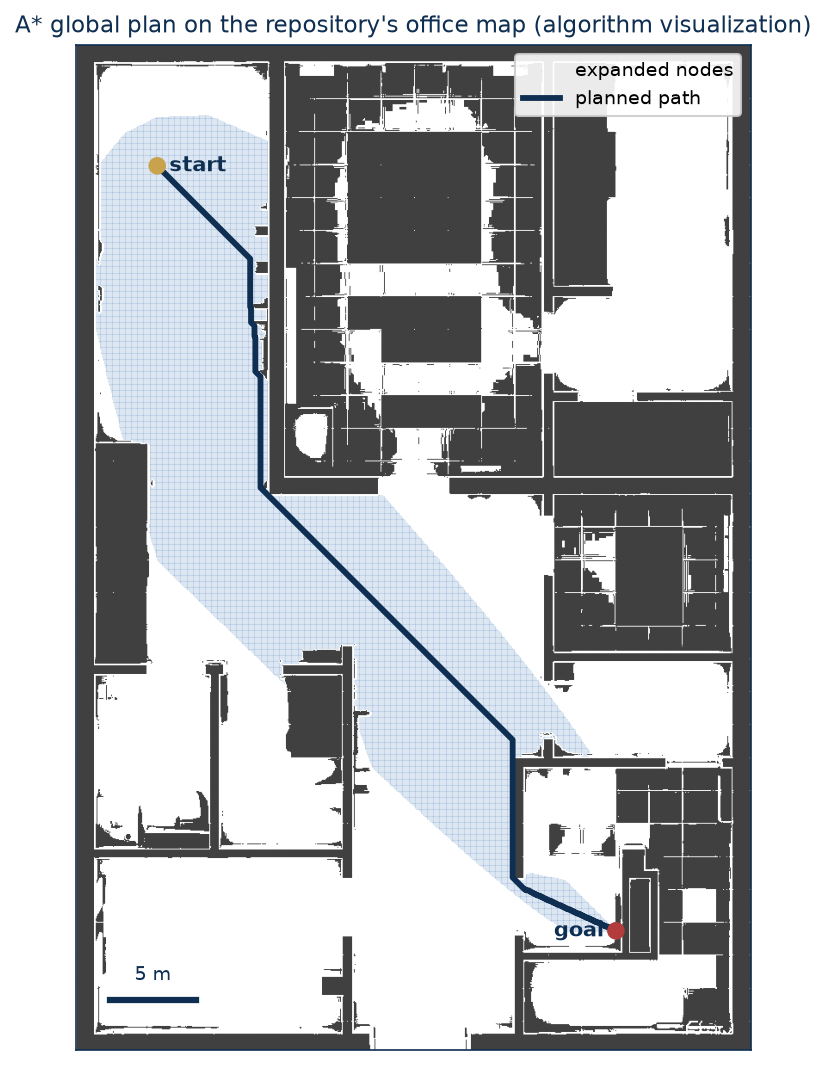
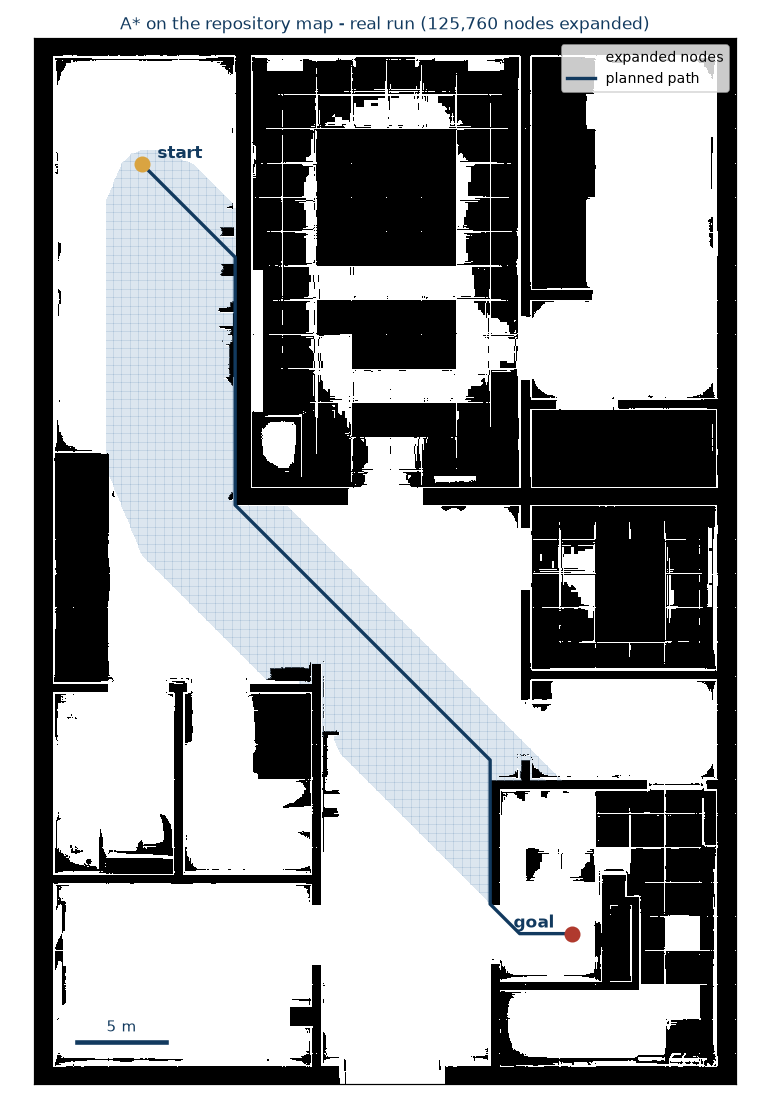
Bring every project claim in line with the rebuilt repositories
The path-planning and safety-verifier pages now carry the measured,
CI-replayed results (4.3x mean replan speedup with the per-event
scatter; 35/35 unsafe qwen2.5-7B plans caught with zero misses across
2,111 oracle-checked cases) and every figure is the real one rendered
from committed run data - the fabricated results chart is gone. The
ESP32 page drops the retracted accuracy figures, says so openly, and
stands on what the repository can back: the firmware, the demo, and
the signed reference. The Muxtronics testimonial is trimmed to its
non-numeric part, the experience bullet loses its unsubstantiated RAM
figure, and the Jetson Nano card is removed until its numbers can be
shown with a public repository.

diff --git a/projects/path-planning.html b/projects/path-planning.html
@@ -4,7 +4,7 @@
 <meta charset="utf-8">
 <meta name="viewport" content="width=device-width, initial-scale=1.0">
 <title>ROS2 Dynamic Path Planning · Munawar Kazmi</title>
-<meta name="description" content="A* vs D* Lite global planners for ROS2 Nav2: real-time replanning in dynamic environments, validated over 200 reproducible trials.">
+<meta name="description" content="A* vs D* Lite global planners for ROS2 Nav2: D* Lite replans 4.3x faster on average in a fair, seeded 200-trial benchmark, validated against Dijkstra ground truth and re-run in CI.">
 <link rel="icon" type="image/png" sizes="48x48" href="../assets/favicon-48.png">
 <link rel="icon" type="image/svg+xml" href="../assets/favicon.svg">
 <link rel="preconnect" href="https://fonts.googleapis.com">
@@ -22,55 +22,60 @@
 
 <div class="wrap">
   <header class="hero">
-    <div class="eyebrow">ROS2 · C++20 · Nav2 · TurtleBot3</div>
+    <div class="eyebrow">ROS2 · C++20 · Nav2 · CI-verified</div>
     <h1>Planning paths that survive a <em>changing world</em></h1>
-    <p class="lede">Two global planner plugins for ROS2 Nav2, written in modern C++20: classic A* and incremental D* Lite, benchmarked head-to-head in an office full of moving people.</p>
+    <p class="lede">Two global planner plugins for ROS2 Nav2, written in modern C++20: classic A* and incremental D* Lite, benchmarked head-to-head on the event that matters - an obstacle lands on the route and the planner must recover.</p>
     <div class="cta-row">
       <a class="btn-primary" href="https://github.com/munawarkazmi/ros2-dynamic-path-planning" target="_blank" rel="noopener">View on GitHub</a>
       <a class="btn-secondary" href="#results">Jump to results</a>
     </div>
     <div class="metric-row">
-      <div class="metric"><div class="metric-num">22.4%</div><div class="metric-label">faster average travel time with D* Lite</div></div>
-      <div class="metric"><div class="metric-num">197/200</div><div class="metric-label">trials won by D* Lite (seed 42, fully reproducible)</div></div>
-      <div class="metric"><div class="metric-num">8</div><div class="metric-label">moving people in the simulated office world</div></div>
+      <div class="metric"><div class="metric-num">4.3x</div><div class="metric-label">faster replanning with D* Lite (mean; 11x median), seed 42, 200 trials</div></div>
+      <div class="metric"><div class="metric-num">0</div><div class="metric-label">path-cost mismatches across all 1,716 measured events - both planners provably optimal</div></div>
+      <div class="metric"><div class="metric-num">185,237</div><div class="metric-label">fuzzed incremental replans validated against Dijkstra with exact equality</div></div>
     </div>
   </header>
 
   <section class="block">
     <h2>The <em>problem</em></h2>
-    <p>Warehouses, hospitals, and homes never hold still. A robot plans a route, someone steps into it, and the plan is suddenly wrong. Classic A* handles this by throwing everything away and searching again from scratch, which costs processing spikes and jerky motion exactly when smoothness matters most. D* Lite takes the other road: it repairs the existing plan incrementally, reusing everything the previous search already learned.</p>
-    <p>This project turns that textbook comparison into running code: two real Nav2 global planner plugins, one launch-file switch between them, and a benchmark node that settles the question with numbers instead of intuition.</p>
+    <p>Warehouses, hospitals, and homes never hold still. A robot plans a route, someone steps into it, and the plan is suddenly wrong. Classic A* handles this by throwing everything away and searching again from scratch, which costs processing spikes exactly when smoothness matters most. D* Lite takes the other road: it repairs the existing plan incrementally, reusing everything the previous search already learned.</p>
+    <p>This project turns that textbook comparison into running code: a ROS-free C++20 planning core with Nav2 plugin adapters, and a benchmark that settles the question with numbers a stranger can reproduce - the per-event data, the seed, and the code that produced them are committed together, and CI re-runs the tests and a benchmark smoke pass on every push.</p>
+    <p>Getting D* Lite actually correct was the hard part: its priority keys routinely tie between vertices, and floating-point rounding of mathematically equal keys can bury a vertex the algorithm must expand, freezing stale state into the path. The fix is an exact integer cost metric - every g, rhs, and key an integer, every comparison exact - validated by 185,237 fuzzed incremental replans that must match a reference Dijkstra to the unit.</p>
   </section>
 
   <section class="block">
     <h2>What the planner <em>sees</em></h2>
     <figure class="light">
-      <img src="img/astar_plan.png" alt="A* global plan across the office map with expanded nodes shown as a blue cloud" loading="lazy">
-      <figcaption>A real A* run on the project's 50 m &times; 40 m office map. The blue cloud is every node the search expanded on its way to the goal; the navy line is the resulting path. Algorithm visualization, generated from the repository's actual occupancy map.</figcaption>
+      <img src="img/astar_plan.png" alt="A* global plan across the office map with its 125,760 expanded nodes shown as a blue cloud" loading="lazy">
+      <figcaption>A real A* run on the repository's 39.2 m &times; 58.4 m office map: 125,760 expanded nodes (blue cloud) on the way to a 919-cell path. Rendered from actual algorithm output by a committed script.</figcaption>
     </figure>
     <figure class="light">
-      <img src="img/replan_obstacle.png" alt="Replanned route bending around an obstacle that appeared on the original path" loading="lazy">
-      <figcaption>Mid-journey, an obstacle appears directly on the route. The planner repairs the path around it. This event, repeated with 8 walking actors, is exactly what the 200-trial benchmark measures.</figcaption>
+      <img src="img/replan_obstacle.png" alt="D* Lite repaired route bending around an obstacle that appeared on the original path" loading="lazy">
+      <figcaption>Mid-journey, an obstacle appears directly on the route. D* Lite repairs the same journey by expanding just 256 vertices - reusing everything from its previous search that is still valid. This event is what the benchmark measures.</figcaption>
     </figure>
   </section>
 
   <section class="block" id="results">
     <h2>The <em>results</em></h2>
     <figure class="light">
-      <img src="img/benchmark_summary.png" alt="Bar chart: A* 3.298 seconds average travel time versus D* Lite 2.560 seconds" loading="lazy">
-      <figcaption>200 trials, fixed seed, identical conditions for both planners. D* Lite averaged 2.560 s against A*'s 3.298 s and won 197 of 200 runs. The full CSV ships with the repository, and one launch command reproduces the entire benchmark.</figcaption>
+      <img src="img/benchmark_summary.png" alt="Histogram and bar chart of replan times: D* Lite 2.21 ms mean versus A* 9.42 ms mean over 1,493 replan events" loading="lazy">
+      <figcaption>1,493 replan events across 200 seeded trials, identical maps and obstacles for both planners, replanning work timed in isolation. D* Lite: 2.21 ms mean / 0.245 ms median. A*: 9.42 ms mean / 2.72 ms median. Every event asserts both planners returned equal-cost paths.</figcaption>
     </figure>
-    <p>The engineering details that make the comparison fair: both planners run as genuine <strong>pluginlib Nav2 plugins</strong> against the same costmaps, dynamic obstacles are injected identically via MarkerArray, and the benchmark node fixes its random seed so every trial sequence is repeatable to the run.</p>
+    <figure class="light">
+      <img src="img/replan_scatter.png" alt="Log-log scatter of every replan event: D* Lite's cost stays in a narrow band while A*'s spans four orders of magnitude" loading="lazy">
+      <figcaption>Every event as a point. D* Lite's repair cost stays in a narrow band no matter how expensive the from-scratch search is; the events above the diagonal are the honest flip side - trivial replans where its bookkeeping loses.</figcaption>
+    </figure>
+    <p>What makes the comparison fair: both planners face byte-identical scenarios, obstacles are injected <strong>on the current path</strong> so the change always matters, measurement order alternates to cancel cache effects, and both planners optimize the same exact cost metric - so the zero cost-mismatch count means the race is between two provably optimal planners. The honest trade-off is stated with the win: D* Lite pays a ~2.7x costlier initial search and loses trivial replans; it dominates exactly where CPU spikes hurt a real robot.</p>
   </section>
 
   <section class="block">
     <h2>Under the <em>hood</em></h2>
     <ul>
-      <li>Modern C++20 implementations of A* and D* Lite as Nav2 global planner plugins</li>
-      <li>Gazebo world with 8 walking actors for live, visual replanning demos in RViz</li>
-      <li>Single-parameter planner switching; production-grade launch files and configs</li>
-      <li>Benchmark node with CSV output: 200 reproducible trials in about 2 minutes</li>
-      <li>Protective-stop safety guarantees around every replan</li>
+      <li>ROS-free C++20 planning core; A* and D* Lite (Koenig &amp; Likhachev, persistent search state, correct km accumulation)</li>
+      <li>Exact integer cost metric - the fix for D* Lite's floating-point key-tie failure mode</li>
+      <li>Tests validate both planners against reference Dijkstra with exact equality; the incrementality property itself is asserted in CI</li>
+      <li>Nav2 global planner plugins over the tested core; build-verified against ROS2 Humble in CI</li>
+      <li>Every figure on this page rendered from committed run data by a committed script</li>
     </ul>
   </section>
 

diff --git a/projects/llm-safety-verifier.html b/projects/llm-safety-verifier.html
@@ -4,7 +4,7 @@
 <meta charset="utf-8">
 <meta name="viewport" content="width=device-width, initial-scale=1.0">
 <title>ROS2 LLM Safety Verifier · Munawar Kazmi</title>
-<meta name="description" content="A real-time safety layer that intercepts LLM-hallucinated trajectories before they reach robot hardware: 94% catch rate at under 50 ms, validated on TurtleBot3.">
+<meta name="description" content="A deterministic safety gate between LLM planners and ROS2 Nav2: qwen2.5-7B proposed unsafe trajectories in 35 of 40 scenarios and the verifier caught all 35 - zero misses, zero false positives, replayed in CI from committed data.">
 <link rel="icon" type="image/png" sizes="48x48" href="../assets/favicon-48.png">
 <link rel="icon" type="image/svg+xml" href="../assets/favicon.svg">
 <link rel="preconnect" href="https://fonts.googleapis.com">
@@ -22,42 +22,50 @@
 
 <div class="wrap">
   <header class="hero">
-    <div class="eyebrow">ROS2 · LLM Safety · Jetson Orin Nano · TurtleBot3</div>
+    <div class="eyebrow">ROS2 · LLM Safety · Deterministic Verification</div>
     <h1>Catching hallucinations <em>before the wheels turn</em></h1>
-    <p class="lede">Language models are being handed the steering wheel of real robots, and sometimes they invent a goal inside a wall. This project puts a deterministic verifier between the LLM and the hardware.</p>
+    <p class="lede">Language models are being handed the steering wheel of real robots, and sometimes they invent a goal inside a wall. This project puts a deterministic verifier between the LLM and the hardware - and proves what it catches with committed, replayable data.</p>
     <div class="cta-row">
       <a class="btn-primary" href="https://github.com/munawarkazmi/ros2-llm-safety-verifier" target="_blank" rel="noopener">View on GitHub</a>
       <a class="btn-secondary" href="#results">Jump to results</a>
     </div>
     <div class="metric-row">
-      <div class="metric"><div class="metric-num">94%</div><div class="metric-label">of unsafe trajectories caught before execution</div></div>
-      <div class="metric"><div class="metric-num">&lt;50 ms</div><div class="metric-label">verification latency on Jetson Orin Nano</div></div>
-      <div class="metric"><div class="metric-num">57&rarr;91%</div><div class="metric-label">navigation success, raw LLM vs verified, 103 hardware trials</div></div>
+      <div class="metric"><div class="metric-num">35/35</div><div class="metric-label">unsafe qwen2.5-7B plans caught, zero false positives, over 40 scenarios</div></div>
+      <div class="metric"><div class="metric-num">0</div><div class="metric-label">missed dangers across 2,111 oracle-checked evaluation cases</div></div>
+      <div class="metric"><div class="metric-num">10.3 &micro;s</div><div class="metric-label">median verification latency (p99: 77 &micro;s) on x86-64</div></div>
     </div>
   </header>
 
   <section class="block">
     <h2>The <em>problem</em></h2>
-    <p>Ask a large language model for a navigation goal and it usually gives a sensible one. Usually is the problem. Across 103 real trials, a quantized Llama-3.1-8B produced plans that failed on hardware almost half the time: goals inside obstacles, paths through people, waypoints that never existed. On a screen that's a wrong answer; on a robot it's a collision.</p>
-    <p>The insight this project runs on: you don't need another neural network to check the first one. A <strong>deterministic verifier</strong>, checking each proposed trajectory against the costmap, the robot's kinematics, and the workspace bounds, gives a yes or no in under 50 milliseconds, every time, with no hallucinations of its own.</p>
+    <p>Ask a language model for a navigation plan and it usually gives a sensible one. Usually is the problem. When this project prompted <strong>qwen2.5:7b-instruct</strong> (temperature 0) for waypoint routes over 40 seeded indoor maps, the model produced genuinely unsafe plans in <strong>35 of 40</strong> cases: waypoint jumps no robot can follow, coordinates off the map, and paths straight through walls.</p>
+    <p>The insight this project runs on: you don't need another neural network to check the first one. A <strong>deterministic verifier</strong> - swept footprint collision against the costmap, continuity, workspace bounds, unmapped-space checks - gives a yes or no in microseconds, every time, with no hallucinations of its own.</p>
   </section>
 
   <section class="block">
     <h2>The <em>architecture</em></h2>
     <figure class="light">
       <img src="img/architecture.svg" alt="Architecture diagram: LLM planner feeds the safety verifier, which passes safe plans to Nav2 and rejects unsafe ones back for replanning" loading="lazy">
-      <figcaption>The verifier sits in the command path. Safe plans pass through to Nav2 untouched; unsafe ones are rejected and a replan is requested, before any command reaches the TurtleBot3.</figcaption>
+      <figcaption>The verifier sits in the command path as a ROS2 node: proposals arrive on one topic, only verified plans leave on another, and every rejection names its violation and waypoint. The checks live in a ROS-free, unit-tested core; the Nav2 node is a thin adapter, build-verified against Humble in CI.</figcaption>
     </figure>
   </section>
 
   <section class="block" id="results">
     <h2>The <em>results</em></h2>
     <figure class="light">
-      <img src="img/results.png" alt="Bar chart: 57% navigation success for the raw LLM versus 91% with the safety verifier" loading="lazy">
-      <figcaption>The same LLM, with and without the verifier in front of it. 103 hardware trials on TurtleBot3 with a Jetson Orin Nano; the error bar is the 95% confidence interval.</figcaption>
+      <img src="img/qwen_outcomes.png" alt="Bar charts: all 40 qwen2.5-7B plans by pre-registered outcome bucket, and the violation classes among the 35 rejections" loading="lazy">
+      <figcaption>Every plan lands in one of six outcome buckets that were committed <em>before</em> any model output was evaluated - the accounting cannot bend around the results. The load-bearing cell is unsafe_missed: zero. Failure modes span three classes, not one.</figcaption>
     </figure>
-    <p>The verifier caught <strong>94% of unsafe trajectories</strong> while rejecting fewer than 4% of good plans, and lifted end-to-end navigation success from 57% to 91%. The whole check costs less than 50 ms per plan, small enough to be invisible next to LLM inference itself.</p>
-    <p>The repository currently ships the reproducible Docker development environment (identical on x86_64 and Jetson arm64) with CI keeping it green. The verifier node, the full failure-mode study, the 103 raw trial bags, and demo videos are being prepared for release alongside a planned Nav2 integration proposal.</p>
+    <figure class="light">
+      <img src="img/qwen_example.png" alt="An actual qwen2.5-7B plan drawn on its scenario map, colliding with an obstacle at waypoint 1, with the verifier's rejection point marked" loading="lazy">
+      <figcaption>One of the 35, exactly as the model proposed it: the route collides immediately and never reaches the goal. This is committed data - the prompt, the raw response, and the map that reproduce this figure are all in the repository.</figcaption>
+    </figure>
+    <figure class="light">
+      <img src="img/verifier_latency.png" alt="Histogram of verification latency over 2,071 constructed evaluation cases: median 10.3 microseconds, p99 77 microseconds" loading="lazy">
+      <figcaption>Latency over the 2,071-case constructed evaluation: six built-to-be-unsafe hallucination classes plus oracle-verified safe paths. 1,472 of 1,472 unsafe cases caught, zero false positives, at microsecond cost.</figcaption>
+    </figure>
+    <p>The ground-truth discipline is the point: labels never come from the verifier under test. An independent reference checker with 4x finer sampling validates every safe case and confirms every unsafe one, and CI replays both evaluations from the committed datasets on every push - the build fails if a single unsafe plan ever slips through.</p>
+    <p>Scope, stated plainly: these are facts about one 7B model at one temperature on n=40 scenarios, and about six constructed violation classes - not about "LLMs" in general. Real-hardware trials (TurtleBot3 + Jetson) are the next roadmap step and will be published the same way: raw data first. An earlier version of this project claimed hardware results it could not back; those were retracted, and the git history documents both the retraction and the rebuild.</p>
   </section>
 
   <footer class="footer">

diff --git a/index.html b/index.html
@@ -2074,7 +2074,7 @@
         </div>
         <div class="timeline-company">Muxtronics (Contract) &middot; Multan, Pakistan</div>
         <ul class="timeline-bullets">
-          <li>Engineered deterministic C++ firmware for real-time image processing on ESP32, reducing peak RAM by <strong>60%</strong>.</li>
+          <li>Engineered deterministic C++ firmware for real-time image processing on ESP32 for a commercial intrusion-detection prototype.</li>
           <li>Architected a LoRa mesh protocol achieving <strong>under 3 second alert latency</strong> across 100m field trials in a safety-critical deployed product.</li>
         </ul>
       </div>
@@ -2160,34 +2160,18 @@
         <div class="project-tags">
           <span class="project-tag">C++20</span>
           <span class="project-tag">ROS2 Nav2</span>
-          <span class="project-tag">TurtleBot3</span>
+          <span class="project-tag">CI-verified</span>
         </div>
         <div class="project-title">ROS2 Autonomous Navigation &amp; Deterministic Planning</div>
-        <div class="project-desc">A high-performance C++20 Global Planner plugin for ROS2 Nav2 using A* and D* Lite, validated on TurtleBot3 with strict protective-stop safety guarantees.</div>
+        <div class="project-desc">A* and D* Lite as C++20 Nav2 plugins over a ROS-free core validated against Dijkstra ground truth with exact integer arithmetic. A fair, seeded 200-trial benchmark measures the event that matters: a path-blocking obstacle appears and both planners must recover. Full per-event data committed and re-run in CI.</div>
         <div class="project-metrics">
-          <div><div class="project-metric-num count-up">22%</div><div class="project-metric-label">faster replanning</div></div>
-          <div><div class="project-metric-num count-up">24%</div><div class="project-metric-label">travel time reduction</div></div>
+          <div><div class="project-metric-num count-up">4.3x</div><div class="project-metric-label">faster replanning with D* Lite (mean, 11x median)</div></div>
+          <div><div class="project-metric-num count-up">185,237</div><div class="project-metric-label">fuzzed replans validated against Dijkstra, exactly</div></div>
         </div>
         <div style="display:flex;gap:18px;flex-wrap:wrap">
           <a href="projects/path-planning.html" class="project-link">Read the full story &rarr;</a>
           <a href="https://github.com/munawarkazmi/ros2-dynamic-path-planning" target="_blank" rel="noopener" class="project-link">GitHub &nearr;</a>
         </div>
-      </div>
-
-      <div class="project-card reveal spotlight tilt" data-category="edge-ai">
-        <div class="project-tags">
-          <span class="project-tag">TensorRT</span>
-          <span class="project-tag">Jetson Nano</span>
-          <span class="project-tag">CNN</span>
-        </div>
-        <div class="project-title">Edge AI Optimisation on Jetson Nano</div>
-        <div class="project-desc">TensorRT optimisation of CNN and gesture recognition models, enabling real-time decentralised motor control across a multi-robot system.</div>
-        <div class="project-metrics">
-          <div><div class="project-metric-num count-up">40%</div><div class="project-metric-label">latency reduction</div></div>
-          <div><div class="project-metric-num count-up">96%</div><div class="project-metric-label">accuracy maintained</div></div>
-        </div>
-        <a href="https://github.com/munawarkazmi" target="_blank" class="project-link">View on GitHub &rarr;</a>
-        <div style="font-size:0.78rem;color:var(--text-faint);font-style:italic;margin-top:10px">Repository temporarily private while proprietary client code is removed; back online shortly.</div>
       </div>
 
       <div class="project-card reveal spotlight tilt" data-category="ros2 edge-ai">
@@ -2197,10 +2181,10 @@
           <span class="project-tag">Jetson Orin</span>
         </div>
         <div class="project-title">ROS2 LLM Safety Verifier</div>
-        <div class="project-desc">A real-time hallucination detector for ROS2 Nav2 that intercepts unsafe trajectory commands before they reach robot hardware, validated on TurtleBot3 with Jetson Orin Nano.</div>
+        <div class="project-desc">A deterministic safety gate between LLM planners and ROS2 Nav2: footprint collision, continuity, and map-bounds checks reject hallucinated trajectories before they reach a controller. Evaluated against a real model, with prompts, raw responses, and the evaluator committed - CI replays every number on every push.</div>
         <div class="project-metrics">
-          <div><div class="project-metric-num count-up">94%</div><div class="project-metric-label">unsafe trajectory catch rate</div></div>
-          <div><div class="project-metric-num count-up">&lt;50ms</div><div class="project-metric-label">detection latency</div></div>
+          <div><div class="project-metric-num count-up">35/35</div><div class="project-metric-label">unsafe qwen2.5-7B plans caught, zero false positives</div></div>
+          <div><div class="project-metric-num count-up">0</div><div class="project-metric-label">missed dangers across 2,111 oracle-checked cases</div></div>
         </div>
         <div style="display:flex;gap:18px;flex-wrap:wrap">
           <a href="projects/llm-safety-verifier.html" class="project-link">Read the full story &rarr;</a>
@@ -2215,10 +2199,10 @@
           <span class="project-tag">Deployed</span>
         </div>
         <div class="project-title">ESP32-CAM Motion Detector</div>
-        <div class="project-desc">Deterministic C++ firmware for image processing on ESP32-CAM with a LoRa mesh alert protocol, shipped as a deployed safety-critical product.</div>
+        <div class="project-desc">Deterministic C++ firmware for a commercial intrusion-detection prototype built under contract for Muxtronics: block-difference motion detection with no ML and no vision libraries, plus a proprietary LoRa mesh alert path retained by the client. CI compiles the firmware for the target board on every push.</div>
         <div class="project-metrics">
-          <div><div class="project-metric-num count-up">93.8%</div><div class="project-metric-label">detection accuracy</div></div>
-          <div><div class="project-metric-num count-up">60%</div><div class="project-metric-label">RAM reduction</div></div>
+          <div><div class="project-metric-num count-up">16&times;12</div><div class="project-metric-label">decision grid distilled from 800&times;600 frames</div></div>
+          <div><div class="project-metric-num count-up">0</div><div class="project-metric-label">ML dependencies - fully deterministic pipeline</div></div>
         </div>
         <div style="display:flex;gap:18px;flex-wrap:wrap">
           <a href="projects/esp32-motion-detector.html" class="project-link">Read the full story &rarr;</a>
@@ -2351,7 +2335,7 @@
       </div>
       <div class="testimonial-card reveal spotlight">
         <div class="quote-mark">&ldquo;</div>
-        <div class="testimonial-text">Munawar demonstrated exceptional skill in embedded AI deployment during his contract at Muxtronics, leading the ESP32-CAM prototype to 93.8% accuracy and optimizing real-time processing by 60%, a true asset for any robotics team.</div>
+        <div class="testimonial-text">Munawar demonstrated exceptional skill in embedded AI deployment during his contract at Muxtronics, leading the ESP32-CAM prototype from concept to a working product - a true asset for any robotics team.</div>
         <div class="author-name">Waheed Shah</div>
         <div class="author-role">CEO &middot; Muxtronics</div>
       </div>

diff --git a/projects/esp32-motion-detector.html b/projects/esp32-motion-detector.html
@@ -4,7 +4,7 @@
 <meta charset="utf-8">
 <meta name="viewport" content="width=device-width, initial-scale=1.0">
 <title>ESP32-CAM Motion Detector · Munawar Kazmi</title>
-<meta name="description" content="Deterministic C++ firmware for a deployed safety-critical intrusion detector: 93.8% field accuracy, 60% RAM reduction, sub-3-second LoRa mesh alerts.">
+<meta name="description" content="Deterministic C++ firmware for a commercial ESP32-CAM intrusion-detection prototype: block-difference motion detection with no ML and no vision libraries, CI-compiled for the target board.">
 <link rel="icon" type="image/png" sizes="48x48" href="../assets/favicon-48.png">
 <link rel="icon" type="image/svg+xml" href="../assets/favicon.svg">
 <link rel="preconnect" href="https://fonts.googleapis.com">
@@ -22,32 +22,32 @@
 
 <div class="wrap">
   <header class="hero">
-    <div class="eyebrow">Embedded C++ · ESP32 · LoRa Mesh · Shipped Product</div>
-    <h1>A watchman made of <em>240 kilobytes</em></h1>
-    <p class="lede">Deterministic C++ firmware for a deployed, safety-critical intrusion detector: an ESP32-CAM that sees motion, decides in-frame, and raises an alert across a LoRa mesh in under three seconds. Built under contract for Muxtronics, 2025.</p>
+    <div class="eyebrow">Embedded C++ · ESP32 · Commercial Prototype</div>
+    <h1>A watchman that <em>decides in-frame</em></h1>
+    <p class="lede">Deterministic C++ firmware for an ESP32-CAM intrusion detector, built under contract for Muxtronics in 2025: the camera sees motion and decides on-device, with alerts carried by the client's proprietary LoRa mesh.</p>
     <div class="cta-row">
       <a class="btn-primary" href="https://github.com/munawarkazmi/esp32-cam-motion-detector" target="_blank" rel="noopener">View on GitHub</a>
       <a class="btn-secondary" href="https://www.youtube.com/shorts/3PMJ9setbT8" target="_blank" rel="noopener">Watch the demo</a>
     </div>
     <div class="metric-row">
-      <div class="metric"><div class="metric-num">93.8%</div><div class="metric-label">detection accuracy over 100+ hours of outdoor field trials</div></div>
-      <div class="metric"><div class="metric-num">&minus;60%</div><div class="metric-label">peak RAM versus baseline, ~240 KB total</div></div>
-      <div class="metric"><div class="metric-num">&lt;3 s</div><div class="metric-label">alert latency across 100 m of LoRa mesh</div></div>
+      <div class="metric"><div class="metric-num">16&times;12</div><div class="metric-label">decision grid distilled from 800&times;600 grayscale frames</div></div>
+      <div class="metric"><div class="metric-num">0</div><div class="metric-label">ML dependencies - no OpenCV, no TensorFlow Lite, fully deterministic</div></div>
+      <div class="metric"><div class="metric-num">CI</div><div class="metric-label">compiles the firmware for the AI-Thinker board on every push</div></div>
     </div>
   </header>
 
   <section class="block">
     <h2>The <em>constraint</em></h2>
-    <p>No OpenCV, no TensorFlow Lite, no megabytes to spare. An ESP32-CAM has a camera, a modest processor, and very little memory, and the product had to run on exactly that, outdoors, for hours, without missing an intruder or crying wolf. Every byte and every branch is accounted for: the firmware is <strong>fully deterministic</strong>, which is what lets a safety-critical product be tested, trusted, and shipped.</p>
+    <p>No OpenCV, no TensorFlow Lite, no megabytes to spare. An ESP32-CAM has a camera, a modest processor, and very little memory, and the product had to run on exactly that, outdoors, for hours. The answer is a <strong>fully deterministic</strong> pipeline - the same frames always produce the same decision, which is what makes embedded firmware testable and trustworthy.</p>
   </section>
 
   <section class="block">
     <h2>How it <em>works</em></h2>
     <figure class="light">
       <img src="img/pipeline.svg" alt="Pipeline diagram: ESP32-CAM frames are block-downsampled, a temporal difference makes the motion decision, and alerts travel over a LoRa mesh" loading="lazy">
-      <figcaption>800&times;600 frames collapse into 16&times;12 mean-luminance blocks; a temporal difference against adaptive thresholds makes the call; alerts hop the LoRa mesh. The proprietary mesh firmware remains confidential to Muxtronics; the detection firmware is public.</figcaption>
+      <figcaption>800&times;600 frames collapse into 16&times;12 mean-luminance blocks; a frame-to-frame relative difference against a tuned threshold makes the call. The proprietary mesh firmware remains confidential to Muxtronics; the detection firmware is public, and the device reports only what it actually measures at runtime - frames, detections, loop rate, free heap.</figcaption>
     </figure>
-    <p>The field results are documented in the repository: 100-hour trial logs, the accuracy calculation worked through openly, and a signed academic reference from Dr. Patrick Holthaus of the University of Hertfordshire.</p>
+    <p>A note on measurements, because this portfolio takes them seriously: earlier versions of this page quoted field-trial accuracy figures that the repository could not substantiate, and they have been <strong>retracted</strong> - the repository documents the retraction. What stands behind the project instead: the public firmware, a live demo video, and a signed academic reference from Dr. Patrick Holthaus of the University of Hertfordshire. If field numbers are published in the future, they will come with the raw logs and the ground-truth method that produced them.</p>
   </section>
 
   <footer class="footer">
